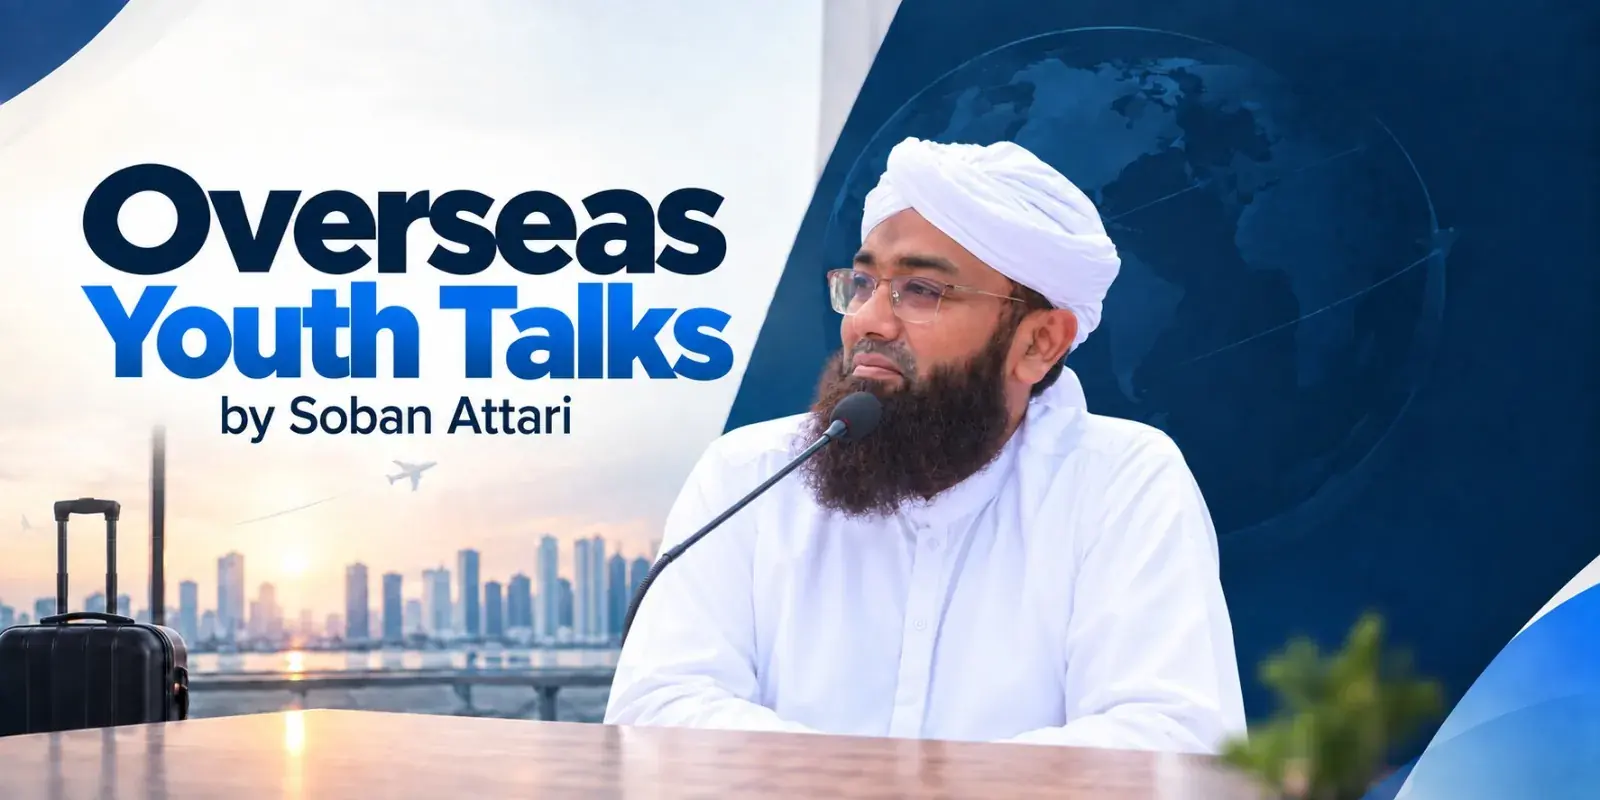
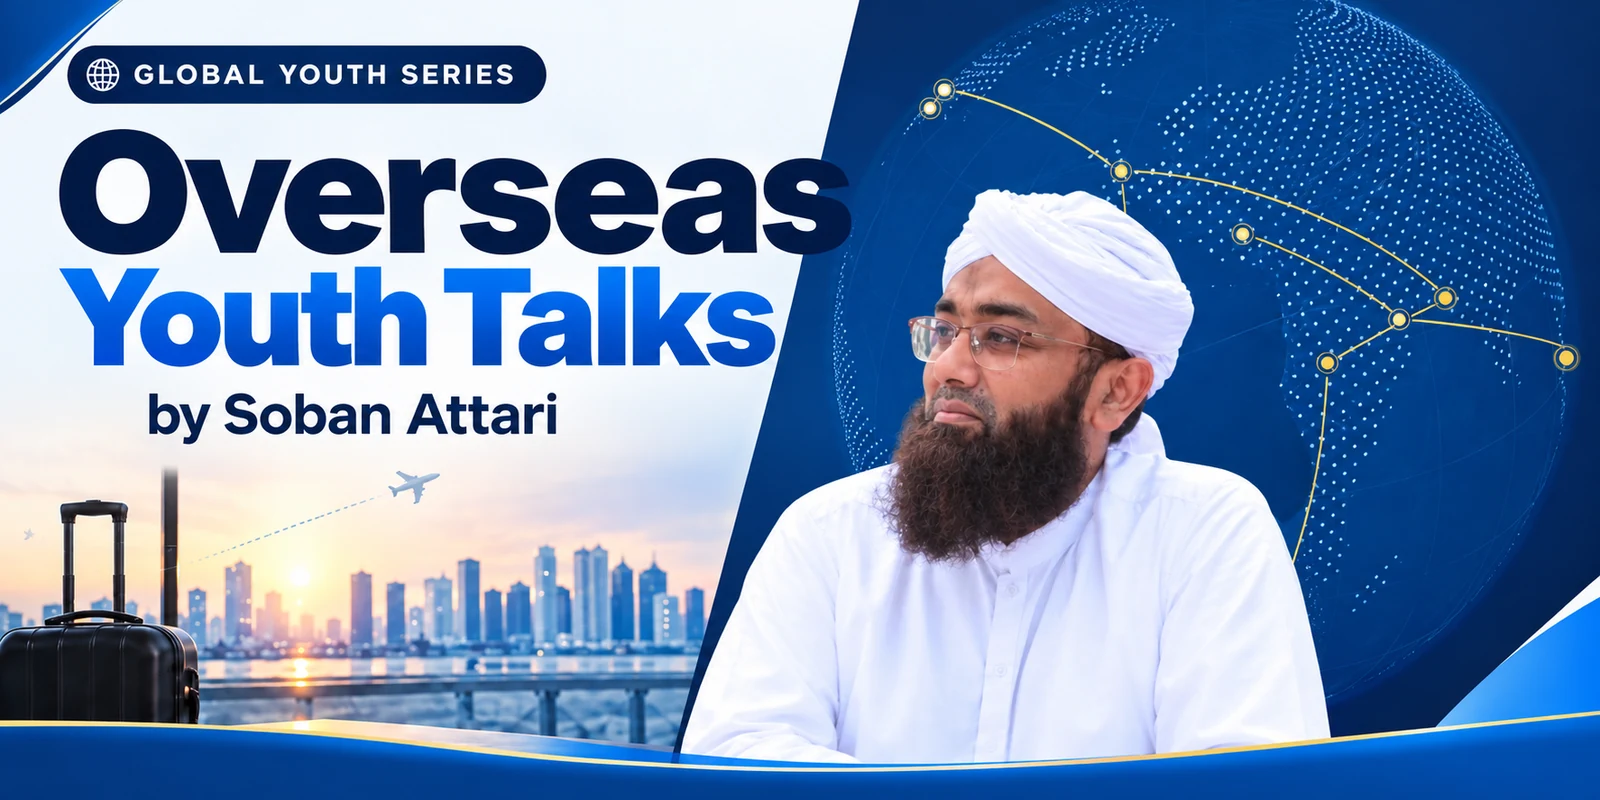
Restyle activity summary sections on Flood, Blood Camp and Plantation pages
Fact lists become roomier numbered cards under a centred heading, with
hover states and a compact phone layout; the Plantation "Why trees
matter" line becomes a callout card with an icon.

diff --git a/styles.css b/styles.css
@@ -1867,16 +1867,66 @@ a.session-card:hover .session-photo .sp-fg { transform: scale(1.03); }
 .drive-text h3 { font-size: clamp(22px, 2.2vw, 28px); line-height: 1.2; margin: 14px 0 10px; }
 .drive-text p { font-size: 16px; line-height: 1.7; color: var(--text-body); margin: 0 0 16px; }
 .drive-credit { text-align: center; margin-top: 8px !important; }
-.drive-note { max-width: 640px; margin: var(--space-lg) auto 0; text-align: center; }
-.drive-note p { font-size: 16px; line-height: 1.7; color: var(--text-body); margin-bottom: 18px; }
-.drive-summary { max-width: 820px; margin: var(--space-xl) auto 0; padding: clamp(24px, 4vw, 40px); background: var(--bg-off-white); border: 1px solid var(--border-light); border-radius: 18px; }
-.drive-summary h3 { font-size: clamp(22px, 2.4vw, 28px); margin-bottom: 18px; }
-.drive-facts { list-style: none; margin: 0; padding: 0; display: grid; grid-template-columns: repeat(2, minmax(0, 1fr)); gap: 12px; }
-.drive-facts li { background: var(--bg-light); border: 1px solid var(--border-light); border-left: 3px solid var(--accent); border-radius: 10px; padding: 14px 16px; display: flex; flex-direction: column; gap: 4px; }
-.drive-facts li:last-child:nth-child(odd) { grid-column: 1 / -1; }
-.drive-facts strong { font-family: var(--font-display); font-size: 16px; color: var(--text-dark); }
-.drive-facts span { font-size: 14px; line-height: 1.55; color: var(--text-body); }
-.drive-summary .field-cite { margin: 18px 0 0; }
+/* Plantation "Why trees matter" — a callout card with an icon */
+.drive-note {
+  display: flex; align-items: flex-start; gap: 18px;
+  max-width: 760px; margin: var(--space-lg) auto 0;
+  padding: 24px 28px;
+  background: var(--bg-off-white); border: 1px solid var(--border-light); border-left: 3px solid var(--accent);
+  border-radius: 16px;
+}
+.drive-note::before {
+  content: "\1F333";
+  flex-shrink: 0;
+  display: flex; align-items: center; justify-content: center;
+  width: 46px; height: 46px; border-radius: 50%;
+  background: var(--accent-dim); font-size: 22px; line-height: 1;
+}
+.drive-note p { margin: 0; font-size: 16px; line-height: 1.75; color: var(--text-body); }
+.drive-note strong { display: block; margin-bottom: 4px; font-family: var(--font-display); font-size: 18px; color: var(--text-dark); }
+
+/* Flood / Blood "What he did" summary — numbered fact cards */
+.drive-summary { max-width: 1040px; margin: var(--space-xl) auto 0; }
+.drive-summary h3 { text-align: center; font-size: clamp(24px, 2.6vw, 32px); margin-bottom: 32px; }
+.drive-summary h3::after { content: ""; display: block; width: 44px; height: 3px; margin: 14px auto 0; border-radius: 3px; background: var(--accent); }
+.drive-facts {
+  list-style: none; margin: 0; padding: 0;
+  display: grid; grid-template-columns: repeat(12, minmax(0, 1fr)); gap: 20px;
+  counter-reset: drive-fact;
+}
+.drive-facts li {
+  grid-column: span 3;
+  counter-increment: drive-fact;
+  display: flex; flex-direction: column; gap: 8px;
+  padding: 26px 24px 26px;
+  background: var(--bg-light); border: 1px solid var(--border-light); border-radius: 16px;
+  transition: transform var(--transition), border-color var(--transition), box-shadow var(--transition);
+}
+.drive-facts:has(> li:nth-child(5)) li { grid-column: span 4; }
+.drive-facts:has(> li:nth-child(5)) li:nth-child(n+4) { grid-column: span 6; }
+.drive-facts li:hover { transform: translateY(-4px); border-color: var(--accent); box-shadow: 0 24px 50px -26px rgba(245, 197, 24, 0.45); }
+.drive-facts li::before {
+  content: counter(drive-fact, decimal-leading-zero);
+  display: flex; align-items: center; justify-content: center;
+  width: 42px; height: 42px; margin-bottom: 8px; border-radius: 12px;
+  background: var(--accent-dim); color: var(--accent-dark);
+  font-family: var(--font-display); font-size: 15px; font-weight: 700;
+  transition: background var(--transition), color var(--transition);
+}
+.drive-facts li:hover::before { background: var(--accent); color: #111111; }
+.drive-facts strong { font-family: var(--font-display); font-size: 18px; line-height: 1.25; color: var(--text-dark); }
+.drive-facts span { display: block; font-size: 14.5px; line-height: 1.65; color: var(--text-body); }
+.drive-facts span::first-letter { text-transform: uppercase; }
+.drive-summary .field-cite { margin: 24px 0 0; text-align: center; }
+@media (prefers-reduced-motion: reduce) {
+  .drive-facts li { transition: none; }
+  .drive-facts li:hover { transform: none; }
+}
+@media (max-width: 1024px) {
+  .drive-facts li,
+  .drive-facts:has(> li:nth-child(5)) li { grid-column: span 6; }
+  .drive-facts:has(> li:nth-child(5)) li:last-child { grid-column: 1 / -1; }
+}
 .drive-section .field-videos { margin-bottom: 10px; }
 @media (max-width: 900px) {
   .drive-block { grid-template-columns: 1fr; gap: 18px; }
@@ -1886,7 +1936,20 @@ a.session-card:hover .session-photo .sp-fg { transform: scale(1.03); }
   .drive-section { padding: 48px 0; }
   .drive-intro { text-align: left; margin-bottom: 28px; }
   .drive-intro p { font-size: 16px; }
-  .drive-facts { grid-template-columns: 1fr; }
+  .drive-summary h3 { margin-bottom: 24px; }
+  .drive-facts { gap: 12px; }
+  .drive-facts li,
+  .drive-facts:has(> li:nth-child(5)) li,
+  .drive-facts:has(> li:nth-child(5)) li:nth-child(n+4) {
+    grid-column: 1 / -1;
+    display: grid; grid-template-columns: auto 1fr; column-gap: 16px; row-gap: 4px;
+    padding: 18px 18px 20px;
+  }
+  .drive-facts li::before { grid-row: 1 / span 2; margin-bottom: 0; width: 40px; height: 40px; }
+  .drive-facts strong { font-size: 17px; }
+  .drive-note { gap: 14px; padding: 20px 18px; }
+  .drive-note::before { width: 40px; height: 40px; font-size: 19px; }
+  .drive-note p { font-size: 15px; }
 }
 
 /* ── Activity pages (plantation / blood / flood): field stories with galleries ── */
